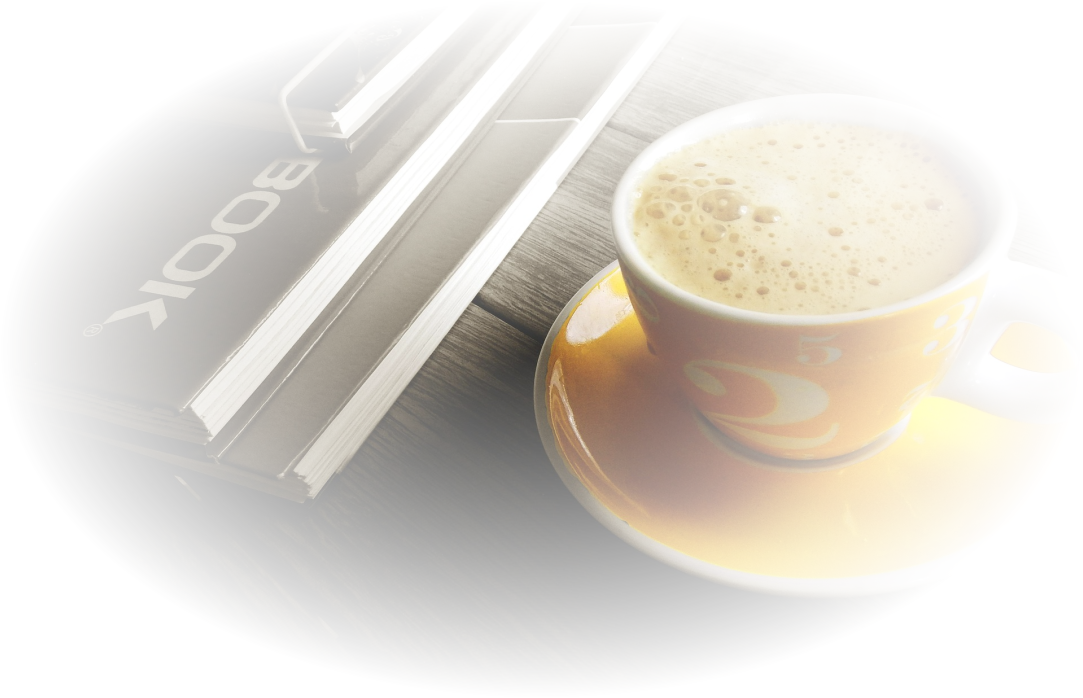
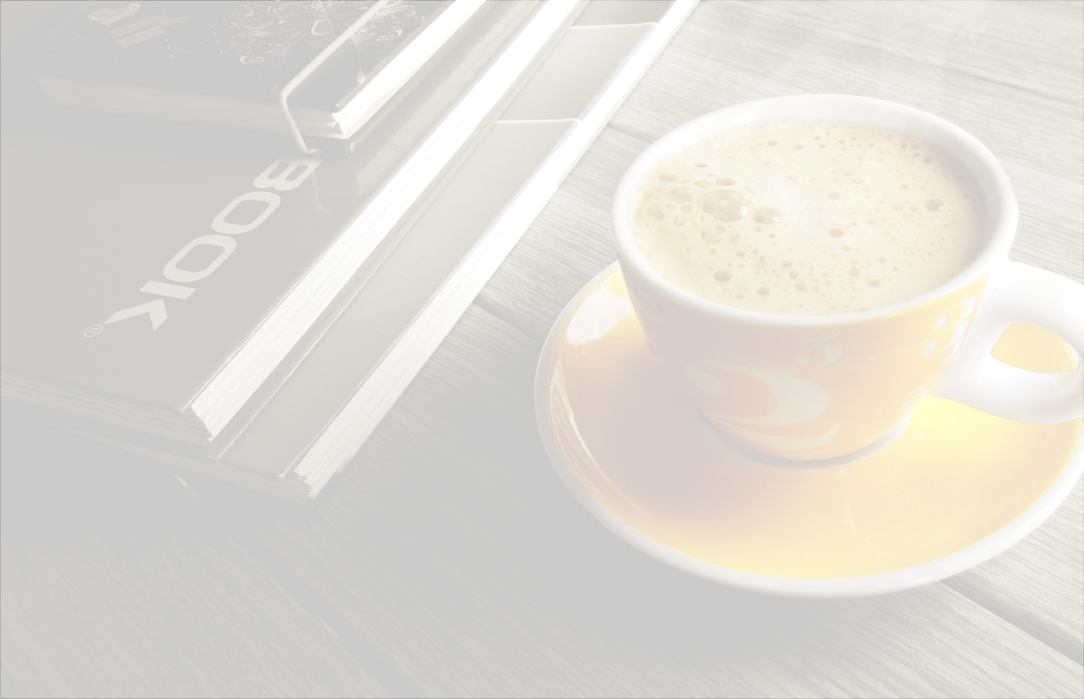
slide

diff --git a/resources/css/vertex-one.css b/resources/css/vertex-one.css
@@ -7,5 +7,6 @@
     background-position: center;
     background-repeat: no-repeat;
     background-size: cover;
+    background-attachment: fixed;
     background-color: #204d91ff;
 }

diff --git a/resources/views/layouts/vertex-one.blade.php b/resources/views/layouts/vertex-one.blade.php
@@ -68,13 +68,31 @@
 
 
         <!-- Destaque Principal -->
-        <section class="container mx-auto px-4 py-16 text-center text-white">
-            <h1 class="text-4xl md:text-5xl font-extrabold mb-4">Bem-vindo à Vertex</h1>
-            <p class="text-lg md:text-xl mb-8">Transformando ideias em soluções digitais incríveis</p>
-            <a href="{{ route('services') }}"
-                class="bg-blue-500 hover:bg-blue-600 text-white py-3 px-6 rounded-full transition">Conheça nossos
-                serviços</a>
+        <section class="w-full bg-black/50">
+            <div class="container mx-auto px-4 py-16 text-white bg-no-repeat bg-cover bg-center flex items-end"
+                style="background-image: url('{{ asset('assets/templates/' . $template . '/programacao-softwares-slide.png') }}');">
+                <div class="flex flex-wrap items-end w-full pt-48">
+                    <div class="w-full md:w-1/2 p-8">
+                        <h1 class="text-4xl md:text-6xl font-extrabold mb-4">
+                            Transformando ideias em soluções digitais inovadoras
+                        </h1>
+                    </div>
+                    <div class="w-full md:w-1/2 p-8">
+                        <p class="text-lg md:text-xl mb-8">
+                            Na Vertex, desenvolvemos sistemas personalizados
+                            que atendem às suas necessidades específicas.
+                            Nossa equipe de especialistas está pronta para levar
+                            seu projeto ao próximo nível.
+                        </p>
+                        <a href="{{ route('services') }}"
+                            class="bg-blue-500 hover:bg-blue-600 text-white py-3 px-6 rounded-full transition">Conheça
+                            nossos
+                            serviços</a>
+                    </div>
+                </div>
+            </div>
         </section>
+
 
         <!-- Destaques -->
         <section class="container mx-auto px-4 py-16 grid gap-8 md:grid-cols-3">
